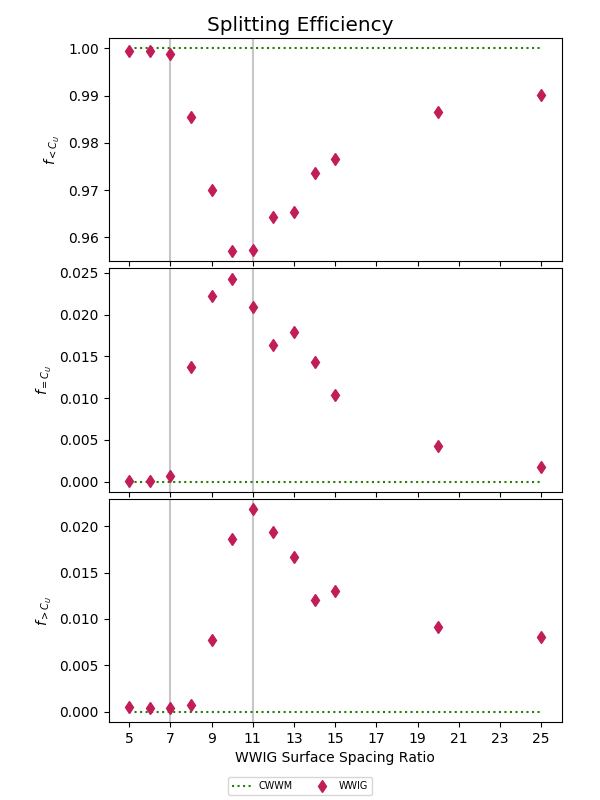
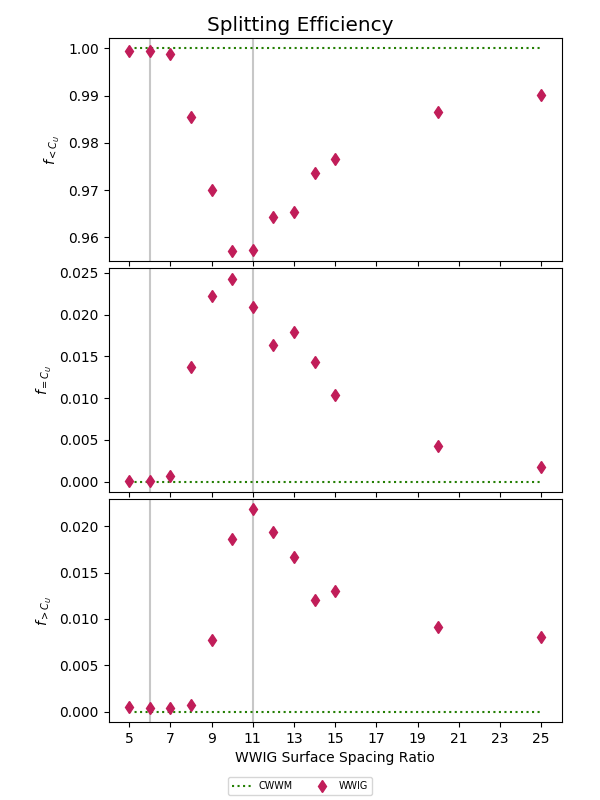
vertical line at 6 instead of 7

Changed region(s): [[0.24, 0.625, 0.3, 0.875], [0.24, 0.3438, 0.3, 0.5938], [0.24, 0.0938, 0.3, 0.3125]]

diff --git a/performance-analysis/analysis/plot_tally_data.py b/performance-analysis/analysis/plot_tally_data.py
@@ -311,9 +311,9 @@ def plot_ww_efficiency(df_output, refinement, df_measure=None):
 
     if df_measure is None:
         # add vertical lines
-        ax[0].axvline(x=7, color=gray)
-        ax[1].axvline(x=7, color=gray)
-        ax[2].axvline(x=7, color=gray)
+        ax[0].axvline(x=6, color=gray)
+        ax[1].axvline(x=6, color=gray)
+        ax[2].axvline(x=6, color=gray)
 
         ax[0].axvline(x=11, color=gray)
         ax[1].axvline(x=11, color=gray)
@@ -373,9 +373,9 @@ def plot_ww_efficiency(df_output, refinement, df_measure=None):
     # plot overall efficiency
     if df_measure is None:
         # add vertical lines
-        ax[0].axvline(x=7, color=gray)
-        ax[1].axvline(x=7, color=gray)
-        ax[2].axvline(x=7, color=gray)
+        ax[0].axvline(x=6, color=gray)
+        ax[1].axvline(x=6, color=gray)
+        ax[2].axvline(x=6, color=gray)
 
         ax[0].axvline(x=11, color=gray)
         ax[1].axvline(x=11, color=gray)
@@ -717,4 +717,4 @@ if __name__ == '__main__':
     plot_relative_error(df_output, 'coarseness', df_measure=df_coarse)
     plot_relative_error(df_output, 'roughness', df_measure=df_rough)
 
-    plt.show()
+    #plt.show()
